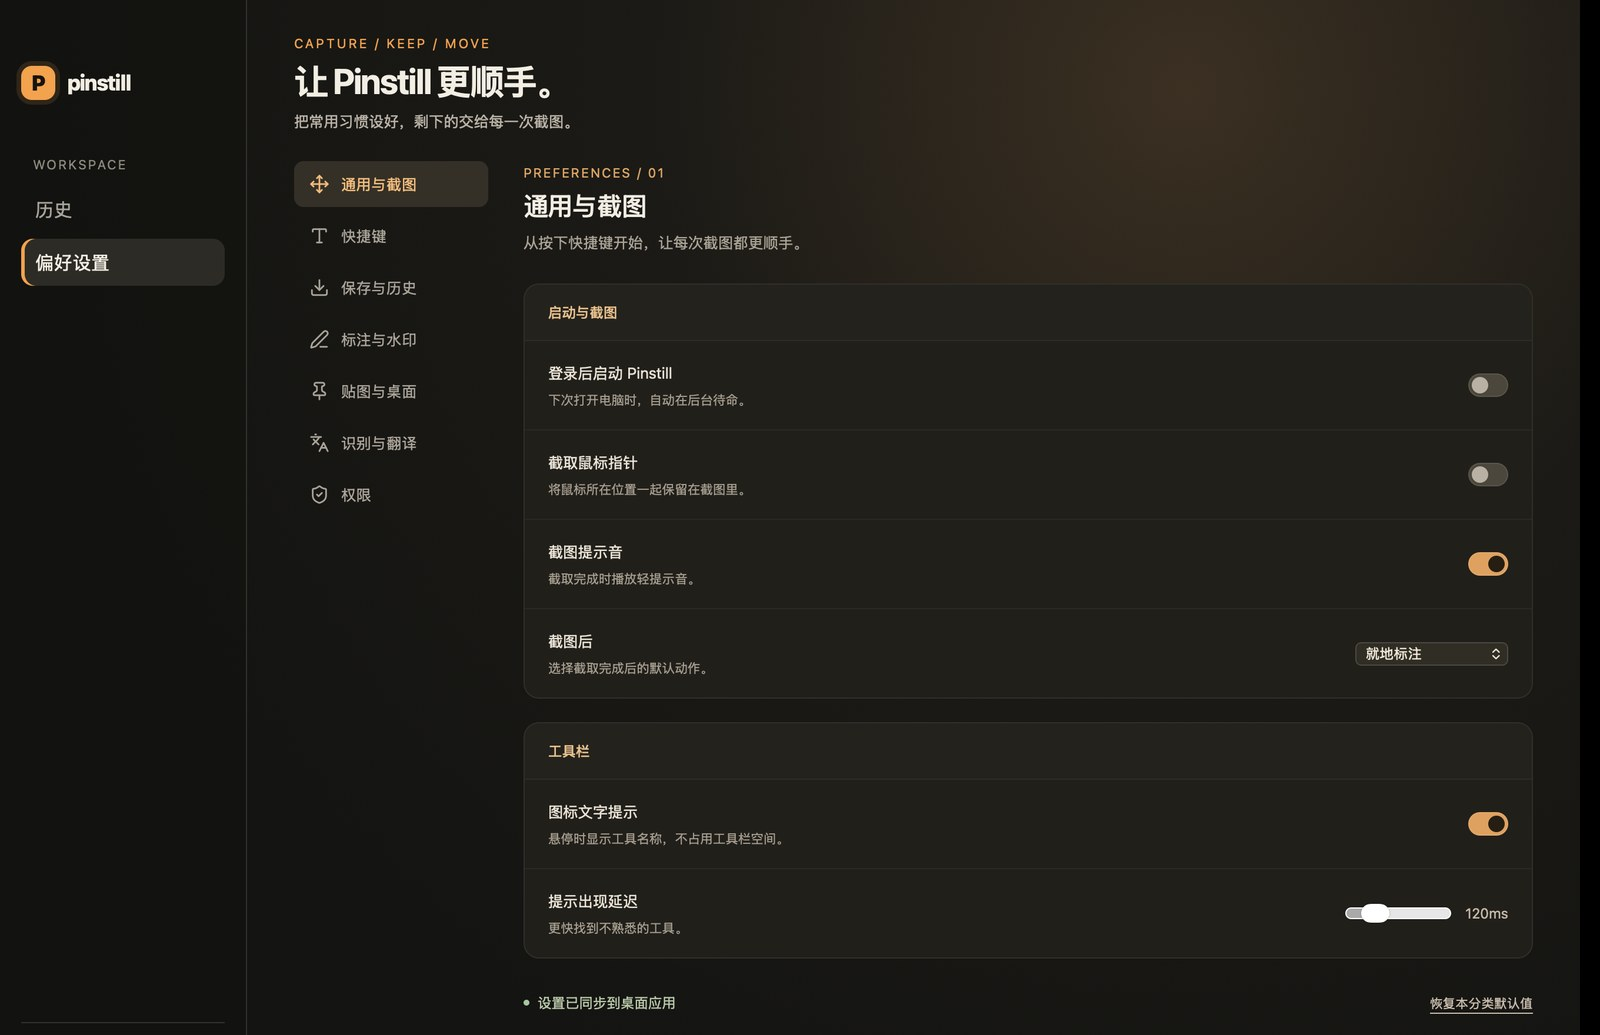
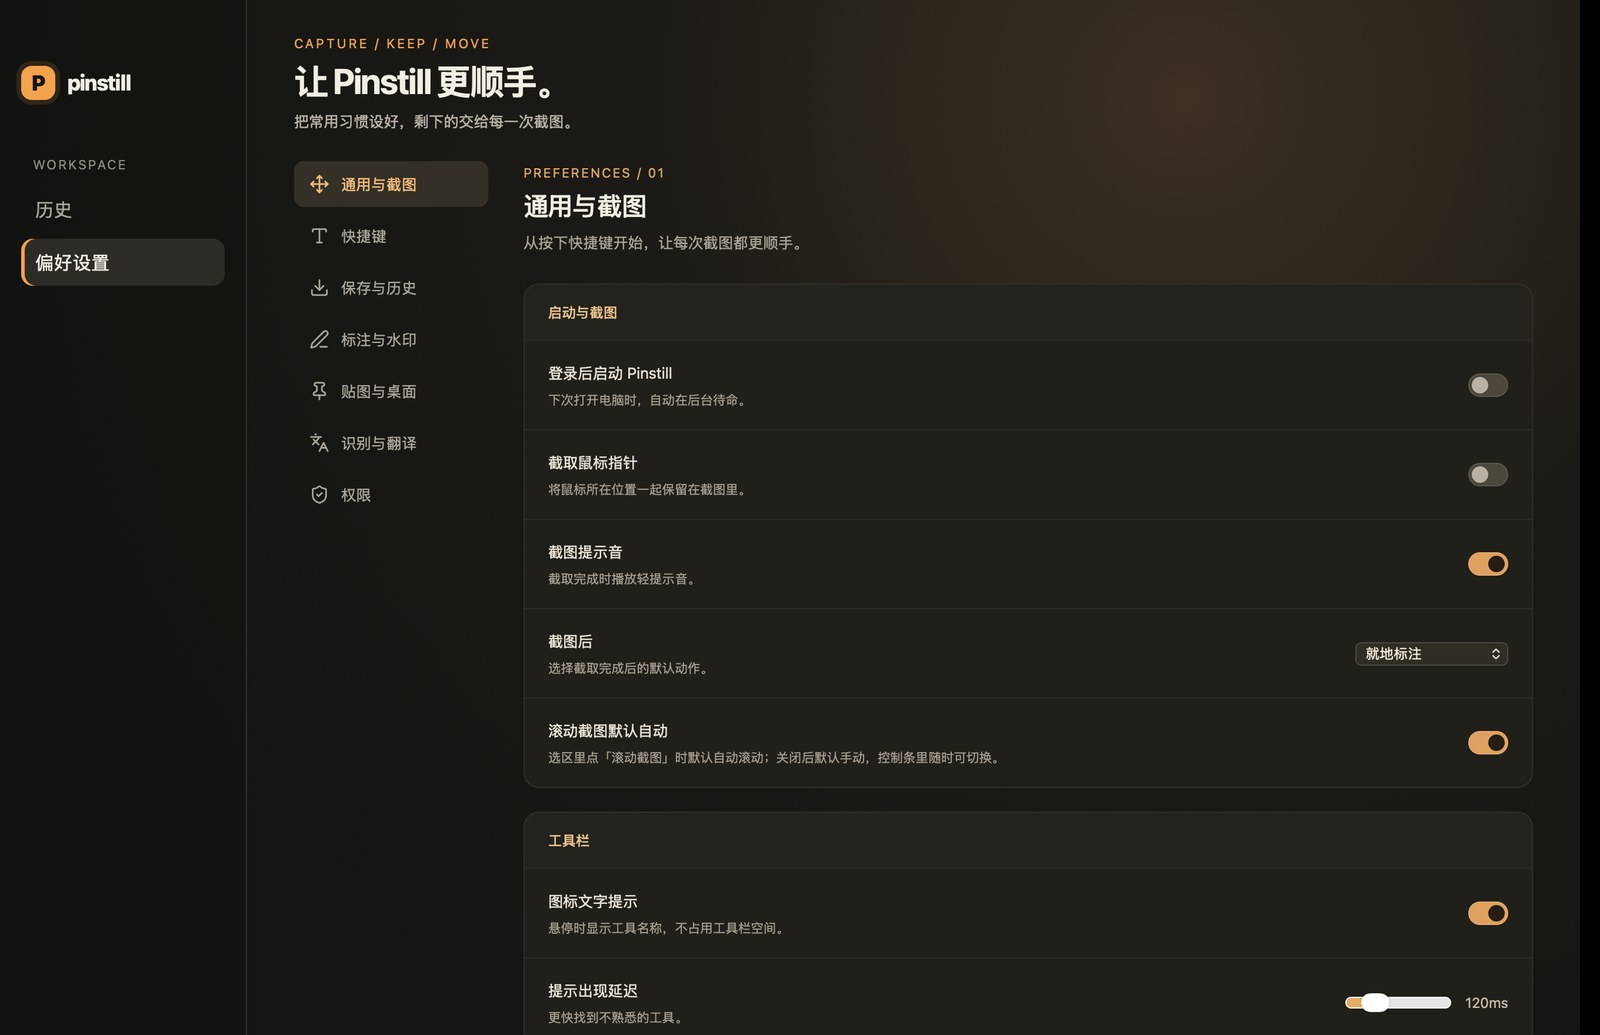
feat: wire the settings that the editor removal left inert
After the main-window editor was removed a few preferences were saved but
never read. They are now honoured by the overlay instead of being dropped:

- "图标文字提示" / "提示出现延迟" control the annotation tooltips (names
  hidden when off, configurable delay);
- "Enter 保存到剪贴板" gates the overlay's Enter-to-copy shortcut;
- "默认工具" selects the tool the overlay starts with (was hardcoded to
  the rectangle tool);
- new "滚动截图默认自动" preference decides the default auto/manual mode
  for scrolling capture (the control bar can still switch per session);
- the shortcut info row is renamed 标注快捷键 (undo / Enter copy / Esc).
- drop the dead --tooltip-delay write in the main window.

OCR / translation / QR preferences stay as-is until those features land.
Full e2e with an isolated data directory passes; signed build; the settings
screenshot is regenerated for the new row.

diff --git a/frontend/src/overlay.ts b/frontend/src/overlay.ts
@@ -40,7 +40,7 @@ import {
   rememberColor,
 } from "./colors";
 import { ColorPalettePanel, createPaletteToggleButton } from "./palette";
-import { DRAW_TOOLS, TOOLS, TOOL_ICONS, type ToolId } from "./tools";
+import { DRAW_TOOLS, TOOLS, TOOL_ICONS, isDrawTool, type ToolId } from "./tools";
 import { blobToBase64, decodeImageBlob, flashButtonSuccess, setButtonPending } from "./util";
 
 const MIN_SELECTION = 3;
@@ -164,10 +164,17 @@ const captureErrorSettings = el<HTMLButtonElement>("captureErrorSettings");
 const captureErrorRetry = el<HTMLButtonElement>("captureErrorRetry");
 const captureErrorCancel = el<HTMLButtonElement>("captureErrorCancel");
 const hintInitialHTML = hint.innerHTML;
+document.documentElement.style.setProperty("--tooltip-delay", `${tooltipDelayMs}ms`);
+if (!tooltipsEnabled) toolbar.classList.add("no-tooltips");
 
 interface StoredPreferences {
   defaultColor?: unknown;
   defaultWidth?: unknown;
+  defaultTool?: unknown;
+  tooltip?: unknown;
+  tooltipDelay?: unknown;
+  enterCopy?: unknown;
+  scrollAuto?: unknown;
   watermarkText?: unknown;
   watermarkOpacity?: unknown;
 }
@@ -196,7 +203,16 @@ const watermarkOpacity =
     ? clamp(storedPreferences.watermarkOpacity, 10, 90)
     : 35;
 
-let currentTool: ToolId = "rect";
+const initialTool = storedPreferences.defaultTool;
+let currentTool: ToolId =
+  typeof initialTool === "string" && isDrawTool(initialTool) ? initialTool : "rect";
+const tooltipsEnabled = storedPreferences.tooltip !== false;
+const tooltipDelayMs =
+  typeof storedPreferences.tooltipDelay === "number"
+    ? clamp(Math.round(storedPreferences.tooltipDelay), 0, 2000)
+    : 120;
+const enterCopyEnabled = storedPreferences.enterCopy !== false;
+const scrollAutoDefault = storedPreferences.scrollAuto !== false;
 let entry = "重点说明";
 
 let displayInfo: OverlayInfo | null = null;
@@ -458,9 +474,10 @@ async function startScrollFromToolbar(): Promise<void> {
   }
   setToolbarPending(true, "正在进入滚动截图…");
   try {
-    // R9: scrolling capture starts in automatic mode; Go falls back to manual
-    // (and reports autoDenied on the control bar) when Accessibility is missing.
-    await startScroll(committedRect, true);
+    // R9: automatic scrolling by default (the user's preference can switch the
+    // default); Go falls back to manual and reports autoDenied on the control
+    // bar when the Accessibility permission is missing.
+    await startScroll(committedRect, scrollAutoDefault);
     phase = "finishing";
     setToolbarStatus("滚动截图进行中 · 结束后自动预览");
   } catch (error) {

diff --git a/frontend/src/settings.ts b/frontend/src/settings.ts
@@ -127,6 +127,12 @@ export const SETTINGS_SCHEMA: SettingsCategory[] = [
               { value: "pin", label: "固定到屏幕" },
             ],
           },
+          {
+            key: "scrollAuto",
+            name: "滚动截图默认自动",
+            description: "选区里点「滚动截图」时默认自动滚动；关闭后默认手动，控制条里随时可切换。",
+            type: "toggle",
+          },
         ],
       },
       {
@@ -192,8 +198,8 @@ export const SETTINGS_SCHEMA: SettingsCategory[] = [
           },
           {
             key: "editorKeys",
-            name: "常用编辑按键",
-            description: "撤销：⌘ / Ctrl Z　·　取消：Esc",
+            name: "标注快捷键",
+            description: "撤销：⌘ / Ctrl Z　·　完成复制：Enter　·　取消：Esc",
             type: "info",
             text: "固定按键",
           },
@@ -294,7 +300,7 @@ export const SETTINGS_SCHEMA: SettingsCategory[] = [
           {
             key: "defaultTool",
             name: "默认工具",
-            description: "点击“截一张”时使用的标注工具。",
+            description: "选区工具栏默认选中的标注工具。",
             type: "select",
             options: toolOptions,
           },
@@ -479,6 +485,7 @@ export const DEFAULT_PREFERENCES: Preferences = {
   cursor: false,
   sound: true,
   afterCapture: "inplace",
+  scrollAuto: true,
   tooltip: true,
   tooltipDelay: 120,
   captureKey: "CmdOrCtrl+Shift+1",

diff --git a/frontend/overlay.html b/frontend/overlay.html
@@ -213,12 +213,13 @@
     pointer-events: none;
     opacity: 0;
     visibility: hidden;
-    transition: opacity 0.12s ease;
+    transition: opacity 0.12s ease var(--tooltip-delay, 0ms);
     box-shadow: 0 4px 12px rgba(0, 0, 0, 0.2);
     z-index: 10;
   }
   .tool-btn:hover .tip,
   .tool-btn:focus-visible .tip { opacity: 1; visibility: visible; }
+  .annotation-toolbar.no-tooltips .tool-btn .tip { display: none; }
   .at-tools .tool-btn:nth-child(-n + 2) .tip { left: 0; transform: none; }
   .at-tools .tool-btn:last-child .tip { left: auto; right: 0; transform: none; }
 

diff --git a/frontend/src/main.ts b/frontend/src/main.ts
@@ -722,7 +722,6 @@ function commitSetting(row: SettingRow, input: HTMLInputElement | HTMLSelectElem
 }
 
 function applyPreferences(changedKey?: string): void {
-  document.documentElement.style.setProperty("--tooltip-delay", `${preferences.tooltipDelay}ms`);
   if (changedKey === "defaultColor" || changedKey === "defaultWidth") {
     // The overlay reads these from storage the next time a capture starts.
   }
